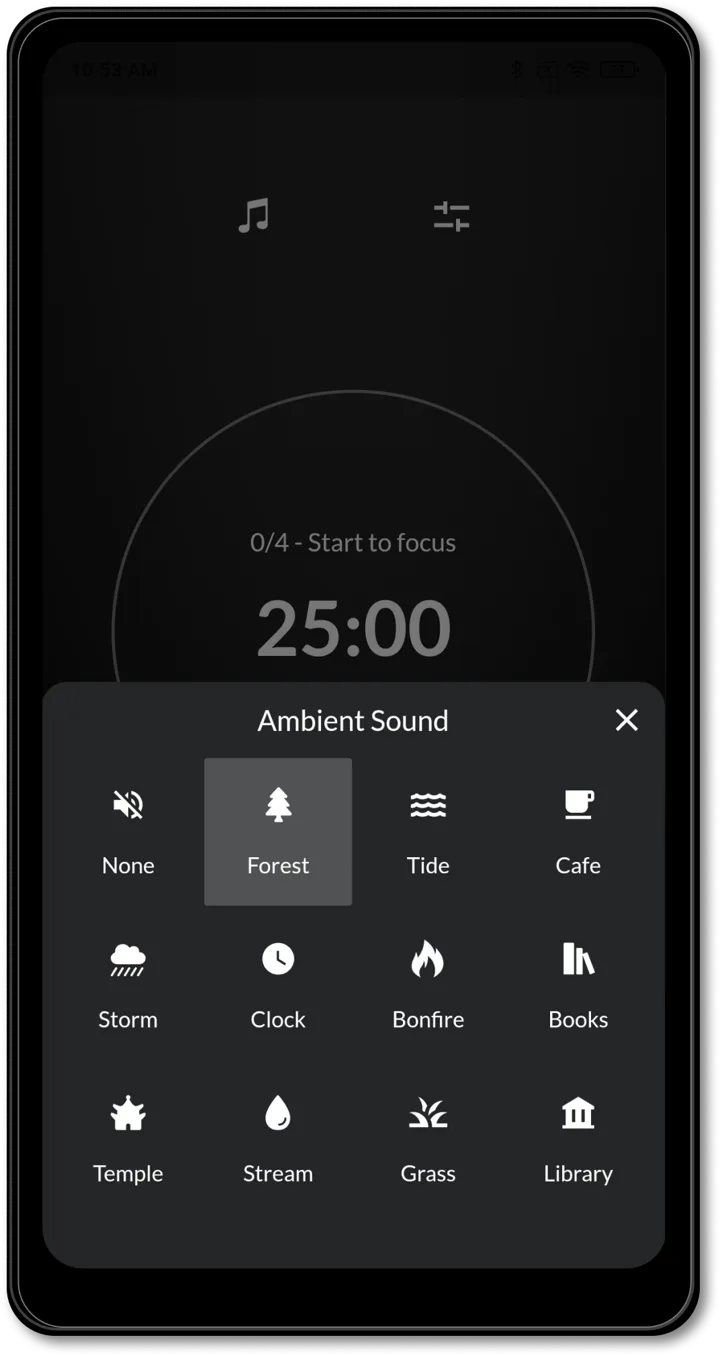
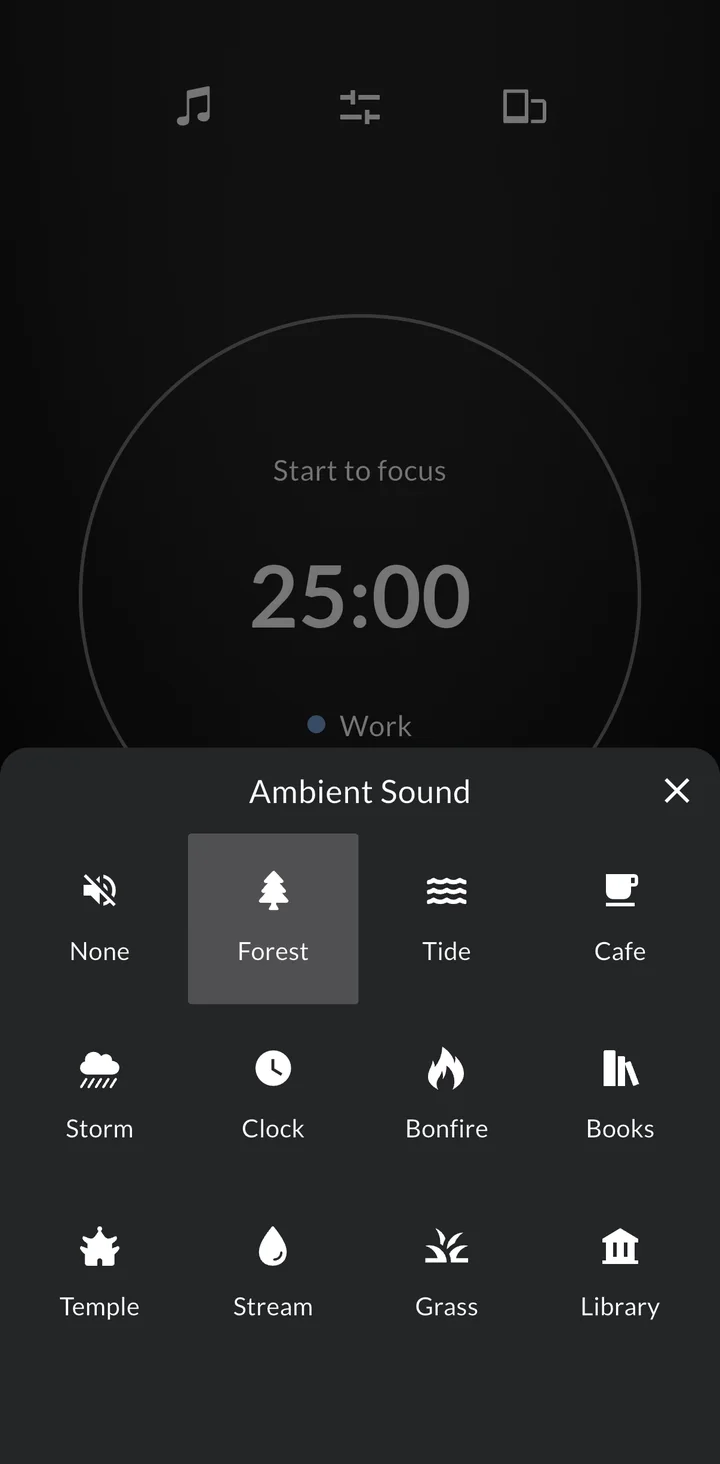
Use current Foca iPhone screenshots for the focus section
Claude-Session: https://claude.ai/code/session_011MVkH6nZ5reC8XqX1YsSps

diff --git a/index.html b/index.html
@@ -243,8 +243,8 @@
           <p>Set your session, tag it with a category and start. Auto-Run keeps rounds going without tapping back in, and ambient sounds — forest, tide, café, bonfire — help you settle.</p>
         </div>
         <div class="feature-media">
-          <img class="shot float" src="images/shot-ios-timer.webp" alt="Foca focus timer on iPhone" width="720" height="1357" loading="lazy">
-          <img class="shot lower float-2" src="images/shot-ios-sounds.webp" alt="Choosing an ambient sound in Foca" width="720" height="1357" loading="lazy">
+          <img class="shot float" src="images/shot-ios-timer.webp" alt="Foca focus timer on iPhone" width="720" height="1464" loading="lazy">
+          <img class="shot lower float-2" src="images/shot-ios-sounds.webp" alt="Choosing an ambient sound in Foca" width="720" height="1464" loading="lazy">
         </div>
       </div>
 

diff --git a/css/home.css b/css/home.css
@@ -94,7 +94,7 @@ p { margin: 0; }
 .feature h2 { font-size: clamp(34px, 4vw, 46px); line-height: 1.08; }
 .feature-copy p:not(.eyebrow) { font-size: 18px; color: var(--muted); }
 .feature-media { flex: 1 1 380px; display: flex; justify-content: center; gap: 20px; }
-.shot { width: 46%; max-width: 240px; border-radius: 28px; }
+.shot { width: 46%; max-width: 240px; border-radius: 28px; border: 1px solid #2a2926; box-shadow: 0 24px 60px rgba(0,0,0,.5); }
 .shot.lower { margin-top: 48px; }
 .shot.solo { width: 60%; max-width: 280px; }
 .float { animation: float 6s ease-in-out infinite; }
